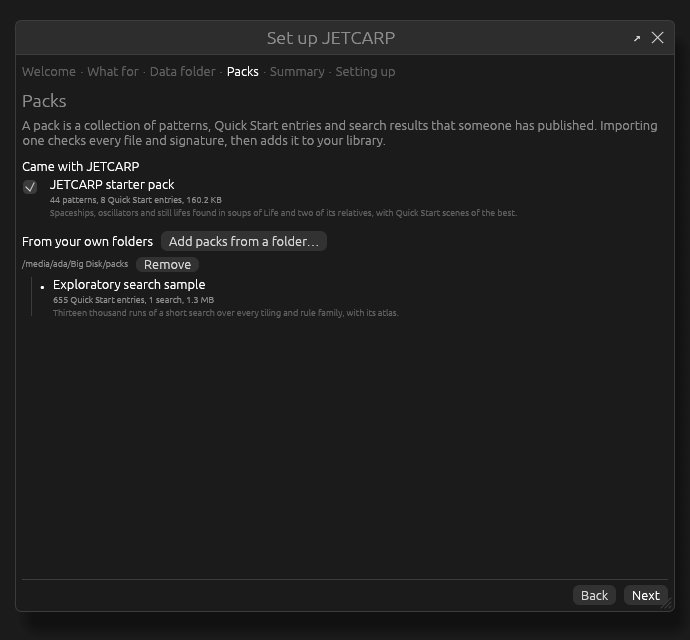
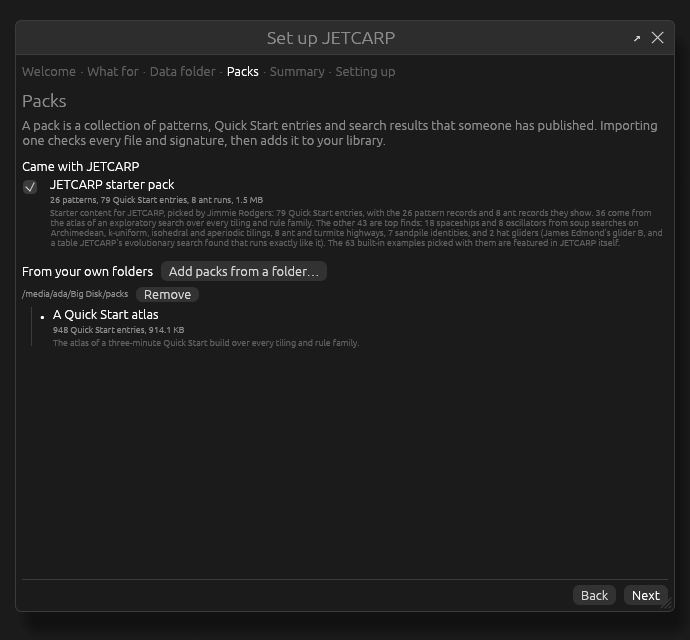
Docs: the setup window's pictures retaken with the real starter pack (26 patterns, 79 Quick Start entries, 8 ant runs, 1.5 MB; a Quick Start atlas as the Researcher's added folder), and first-run's jetcarp setup and setup --status output run again with it

Changed region(s): [[0.0304, 0.3125, 0.9435, 0.5625]]

diff --git a/docs/src/getting-started/first-run.md b/docs/src/getting-started/first-run.md
@@ -77,7 +77,7 @@ out again.
 
 <img src="../images/getting-started/setup-4-packs.png" alt="The packs page for Explorer: the starter pack ticked, with its patterns, Quick Start entries and size" width="600">
 
-<img src="../images/getting-started/setup-4-packs-researcher.png" alt="The packs page for Researcher: the starter pack, and a folder added with Add packs from a folder, holding an exploratory search sample" width="600">
+<img src="../images/getting-started/setup-4-packs-researcher.png" alt="The packs page for Researcher: the starter pack, and a folder added with Add packs from a folder, holding a Quick Start atlas" width="600">
 
 **Desktop** (Desktop art and Everything). The desktop offers, each off until you tick it.
 
@@ -88,7 +88,7 @@ can switch off (Explorer) or lengthen and shorten, from 1 minute to 600. It also
 build runs on the GPU, and roughly what it all takes. **Start** begins; for a profile with nothing to
 import or build the button says **Finish**.
 
-<img src="../images/getting-started/setup-6-summary.png" alt="The summary for Explorer: the data folder, the starter pack, and a ten-minute search on the GPU, about 80 MB and 11 minutes" width="600">
+<img src="../images/getting-started/setup-6-summary.png" alt="The summary for Explorer: the data folder, the starter pack, and a ten-minute search on the GPU, about 83 MB and 11 minutes" width="600">
 
 **Setting up.** Each job with its progress. They run in the background, so **Continue in the
 background** closes the window and they carry on; **Tools → Hunts…** shows them too, and the new
@@ -100,8 +100,8 @@ done the button says **Close**.
 
 <img src="../images/getting-started/setup-8-done.png" alt="Explorer: all set; the starter pack imported and the Quick Start build done, with the number of atlas entries it published" width="600">
 
-The pictures here were made with an example starter pack and a one-minute build, so the numbers on
-your computer will differ.
+The pictures here were made with the starter pack and a one-minute build, so the numbers on your
+computer will differ.
 
 ## The desktop offers
 
@@ -129,13 +129,13 @@ $ jetcarp setup --profile explorer --yes --quickstart-minutes 1
 
 setting up JETCARP as Explorer:
   1. record the profile Explorer in /home/ada/.config/jetcarp/setup.json
-  2. import JETCARP starter pack (44 patterns, 8 Quick Start entries, 160.2 KB)
+  2. import JETCARP starter pack (26 patterns, 79 Quick Start entries, 8 ant runs, 1.5 MB)
   3. search for 1 minute on the GPU (AMD Radeon 8060S Graphics (RADV STRIX_HALO)), then add its best runs to the Quick Start
 pack import job 1 in /home/ada/.local/share/jetcarp/library.sqlite
 explore search job 2 in /home/ada/.local/share/jetcarp/library.sqlite
 GPU: AMD Radeon 8060S Graphics (RADV STRIX_HALO) (radv), Vulkan
-pack import 1: JETCARP starter pack imported: 44 patterns new, 0 merged, 8 Quick Start entries, 0 ant runs (done)
-Quick Start build (explore 2): 615 atlas entries published (615 new, 0 updated, 0 removed); 15,424 runs (75/s), 4,875 elites in 2,725 niches, 180 confirmed, 15 of 1,359 tilings; AMD Radeon 8060S Graphics (RADV STRIX_HALO) (radv), Vulkan (done)
+pack import 1: JETCARP starter pack imported: 26 patterns new, 0 merged, 79 Quick Start entries, 8 ant runs (done)
+Quick Start build (explore 2): 873 atlas entries published (873 new, 0 updated, 0 removed); 9,980 runs (115/s), 2,994 elites in 1,664 niches, 122 confirmed, 13 of 1,359 tilings; AMD Radeon 8060S Graphics (RADV STRIX_HALO) (radv), Vulkan (done)
 recorded Explorer in /home/ada/.config/jetcarp/setup.json
 Open the app with `jetcarp`; `jetcarp setup` again changes your mind.
 ```
@@ -157,19 +157,19 @@ here. After the setup above:
 
 ```text
 $ jetcarp setup --status
-setup: Explorer on 2026-11-12 07:27 UTC (JETCARP 0.4.0)
+setup: Explorer on 2026-11-12 11:57 UTC (JETCARP 0.4.0)
   settings: /home/ada/.config/jetcarp
   data:     /home/ada/.local/share/jetcarp, 7.4 TB free
   library:  /home/ada/.local/share/jetcarp/library.sqlite
   output:   /home/ada/Pictures/JETCARP
   bundled:  /home/ada/.local/lib/jetcarp/packs
 packs that came with JETCARP:
-  JETCARP starter pack (jetcarp-starter/jetcarp-starter): 44 patterns, 8 Quick Start entries, 160.2 KB; the starter pack, imported
+  JETCARP starter pack (jetcarp-starter/jetcarp-starter): 26 patterns, 79 Quick Start entries, 8 ant runs, 1.5 MB; the starter pack, imported
 GPU: AMD Radeon 8060S Graphics (RADV STRIX_HALO) (a Quick Start build runs on it)
-library: 44 patterns, 0 ant runs, 4 jobs; Quick Start entries: 364 built in, 8 from packs, 615 from searches
+library: 26 patterns, 8 ant runs, 24 jobs; Quick Start entries: 364 built in, 79 from packs, 873 from searches
 setup's jobs:
-  pack import 1: JETCARP starter pack imported: 44 patterns new, 0 merged, 8 Quick Start entries, 0 ant runs (done)
-  Quick Start build (explore 2): 615 atlas entries published (615 new, 0 updated, 0 removed); … (done)
+  pack import 1: JETCARP starter pack imported: 26 patterns new, 0 merged, 79 Quick Start entries, 8 ant runs (done)
+  Quick Start build (explore 2): 873 atlas entries published (873 new, 0 updated, 0 removed); … (done)
 profiles:
   desktop-art  Desktop art: Moving pictures for your desktop: … (no extra disk space or time)
   explorer     Explorer: The built-in examples and the starter pack's patterns, and a ten-minute search … (about 80 MB and 11 minutes)
